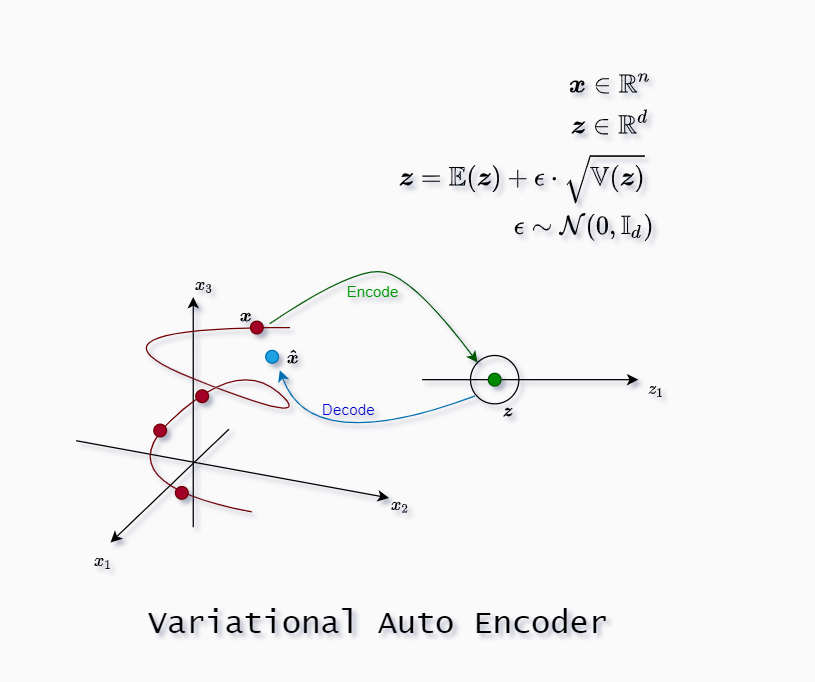
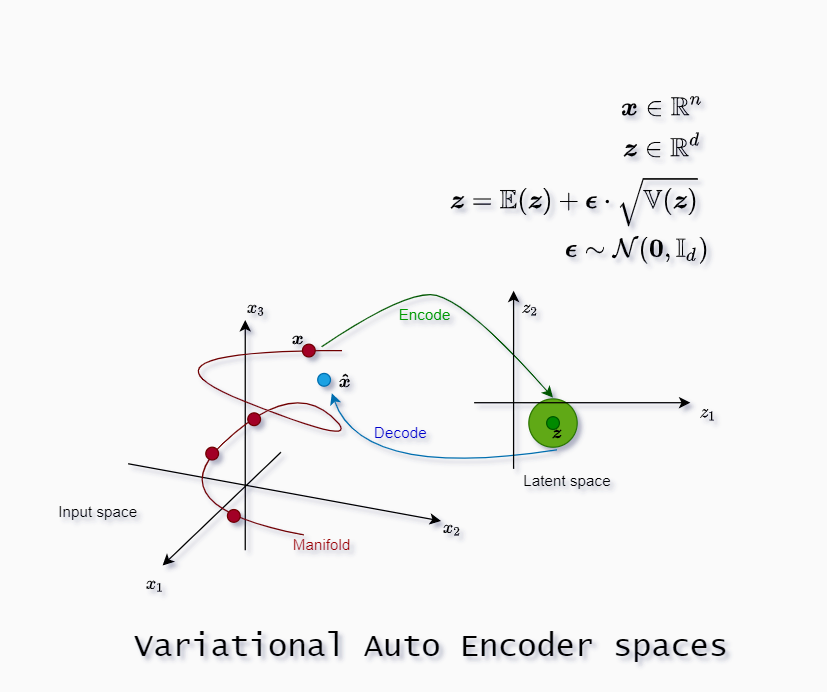
1

diff --git a/_posts/2021-04-14-vae.md b/_posts/2021-04-14-vae.md
@@ -1,86 +1,75 @@
 ---
-published: false
+published: true
 layout: post
 title: Variational Auto-Encoder
 permalink: /vae
 ---
 
+
 There are two approaches to *inference*:
 * exact inference
 * approximation inference
 
-**Exact_ inference** algorithms would be:
+<!-- **Exact_ inference** algorithms would be:
 
 * Brute force
 * The elimination algorithm
 * Message passing
-* Junction tree algorithm
-
-**Approximation inference** algorithms wold be:
+* Junction tree algorithm -->
+<!-- 
+Other approximation inference algorithms wold be:
 * Loopy belief propagation
 * Variational inference
-* Stochastic simulation 
+* Stochastic inferencesimulation  -->
 
-Variational Auto-Encoder do **Variational Inference**.
+Variational Auto-Encoders do **variational Inference** thus the name and this is an **approximation** inference type.
 
+## Marginal Likelihood
 
-
-<!-- ## Marginal Likelihood
-
-To perform **inference** it is sufficient to reason in terms of probabilistic model **marginal likelihood** which is marginalization of **any missing** or latent variables in the model.
+To perform **inference** it is sufficient to reason in terms of probabilistic model **marginal likelihood** which is marginalization of **any missing** or latent variables in the model. As we will see these will be our $\boldsymbol{z}$ variables.
 
 This integration is typically **intractable**, and instead, we optimize a lower bound on the marginal likelihood.
 
-VAE uses VI (Variational Inference)
-
-VI is algorithm to compute the posterior probability **approximately** and where **neural net** is learned to do so.
+VI algorithm is to compute the posterior probability **approximately** using the **neural net**.
 
 
 ## Probabilistic machine learning
 
-A probabilistic model is a joint distribution of hidden variables $\mathrm{z}$ and observed variables $\mathrm{x}$
+A probabilistic model is a joint distribution of hidden variables $\boldsymbol {z}$ and observed variables $\boldsymbol {x}$:
 
 $$
-p(\mathbf{z}, \mathbf{x})
-$$
-Inference about the unknowns is through the posterior, the conditional distribution of the hidden variables given the observations
-$$
-p(\mathbf{z} \mid \mathbf{x})=\frac{p(\mathbf{z}, \mathbf{x})}{p(\mathrm{x})}
+p(\boldsymbol {z}, \boldsymbol {x})
 $$
 
-> What is the evidence?
-It's $p(x)$
+Inference about the unknowns is through the posterior, the conditional distribution of the hidden variables given the observations:
+
+$$
+p(\boldsymbol {z} \mid \boldsymbol {x})=\frac{p(\boldsymbol {z}, \boldsymbol {x})}{p(\boldsymbol {x})}
+$$
+
+**Question**: What is the evidence here?
+
+It's $p(\boldsymbol x)$, and we should learn this distribution so we can create our own inputs from this distribution.
 
 
-For most interesting models, the denominator is not tractable. We appeal to approximate posterior inference. -->
+For the most interesting models the denominator $p(\boldsymbol x)$ is untractable. We can only approximate posterior inference.
 
 Variational Auto-Encoder assumes:
 
+* input $\boldsymbol x$
+* latent space $\boldsymbol  z$
+* VAE NN parameters $\boldsymbol w$
+* PDF of joint $p_{\boldsymbol w}(\boldsymbol  x, \boldsymbol  z)$  is differentiable
 
-* input $x$
-* latent space $z$
-* VAE parameters $\theta$
-* PDF of joint $P_{\theta}(x,z)$
+The whole idea of VAE is to create a neural net that approximates the **posterior**.
 
-We assume the PDF is differentiable.
+Posterior distribution $p(\boldsymbol z \mid \boldsymbol  x)$ is distribution of latent variable condition the data. This distribution is **continuous**.
 
-The whole idea of VAE is to create it as a neural net that approximates the **posterior**.
-
-Posterior distribution we usually write with the letter Q so it will be $Q(z \mid x)$. This is a distribution of latent variable condition the data. This distribution is **continuous**, not the discrete point estimation as we will see.
-
-Since we will learn the VAE as neural net, all the neural net parameters are weights so we can rewrite the distribution with respect to the weights: $Q_{w}(z \mid x)$.
-
-We ask what is the marginal likelihood $P(\theta)$, and what is the variational lover bound of it?
-
-$log P_{\theta}(x)= D_{KL}(Q_{z \mid x} \parallel P_{z \mid x}) +\mathcal{L}(\theta, w \mid x)$
-
-where:
-
-$\mathcal{L}({\theta}, w \mid x)
- = \mathbb{E}_{Q_{w}(z \mid x)}[\log P_{\theta}(x, z)-\log Q_{w}(z \mid x)]$
+Since we will learn the VAE as neural net, all the neural net parameters are weights so we can rewrite the distribution with respect to the weights: $p_{\boldsymbol w}(\boldsymbol z \mid \boldsymbol x)$.
 
 
 
+<!-- 
 ## Maximum likelihood
 
 Maximum likelihood is a method for estimating parameters by maximizing the probability of the observed data. The main ingredients are:
@@ -123,17 +112,72 @@ Where without further information on the dimensionality of $\mathbf{z}$ I have a
 To further clarify, note that the underlying random vector/source of randomness is $\mathbf{z}$, of which you are computing the expectation of a function $f(\mathbf{z}),$ where $f(\mathbf{z})=\log p_{\theta}\left(\mathbf{x}^{(i)} \mid \mathbf{z}\right) .$ And this underlying source of randomness is captured in the distribution $q_{\phi}\left(\mathbf{z} \mid \mathbf{x}^{(i)}\right)$.
 
 
-$\begin{aligned} \mathbb{E}_{q\left(\mathbf{z} \mid \mathbf{x}^{(i)} ; \phi\right)}\left[\log p_{\theta}\left(\mathbf{x}^{(i)} \mid \mathbf{z}\right)\right] &=\int_{\mathbb{R}^{d}} q\left(\mathbf{z} \mid \mathbf{x}^{(i)} ; \phi\right) \log p\left(\mathbf{x}^{(i)} \mid \mathbf{z} ; \theta\right) d \mathbf{z} \\ &=h(\phi, \theta) \end{aligned}$
+$\begin{aligned} \mathbb{E}_{q\left(\mathbf{z} \mid \mathbf{x}^{(i)} ; \phi\right)}\left[\log p_{\theta}\left(\mathbf{x}^{(i)} \mid \mathbf{z}\right)\right] &=\int_{\mathbb{R}^{d}} q\left(\mathbf{z} \mid \mathbf{x}^{(i)} ; \phi\right) \log p\left(\mathbf{x}^{(i)} \mid \mathbf{z} ; \theta\right) d \mathbf{z} \\ &=h(\phi, \theta) \end{aligned}$ -->
 
-## Notation for autoencoder
+## How VAE works
 
-![VAE](/images/2021/04/vae.png)
+We start from the **input** $\boldsymbol x \in \mathbb R^n$, and we **encode** it not just with $\mathbb E(\boldsymbol{z})$ like in normal autoencoder but we also keep the variance $\mathbb V(\boldsymbol{z})$. Both $\mathbb E(\boldsymbol{z})$ and $\mathbb V(\boldsymbol{z})$ have dimensionality $\mathbb R^d$ so in total after the encoding step we have $\mathbb R^{2d}$.
 
-## Joke 
-> What is postarior for the VAE?
-There is no posterior.
+**Encoder** : $\mathbb R^n \rightarrow \mathbb R^{2d}$
+
+**Decoder** : $Z \rightarrow \mathbb R^{n}$ 
 
 
-## Re-parametrization trick
+![vae steps](/images/2021/04/vae-steps.png) 
 
-https://youtu.be/7Rb4s9wNOmc?list=PLLHTzKZzVU9eaEyErdV26ikyolxOsz6mq&t=931
+The **sampler** is capable to create samples from the Gaussian distribution with $\mathbb E(\boldsymbol{z})$ and $\mathbb V(\boldsymbol{z})$, but we use reparametrization trick wich is to replace the sampler with equation:
+
+$$\boldsymbol z = \mathbb E(\boldsymbol 
+z) + \epsilon \cdot \sqrt {\mathbb V(\boldsymbol
+ z) } \tag{1}$$
+
+(1) is called **the reparametrization trick** since we use addition and multiplication to get the gradients we need for backpropagation. 
+
+After we replaced the sampler with reparametrization trick we got $\boldsymbol z$ and lastly we use the **decoder** to decode the original input, but this time we call it $\boldsymbol{\hat x}$. It should be as close as possible to $\boldsymbol{x}$.
+
+![vae spaces](/images/2021/04/vae.png)
+
+In our image latent space is 2-dimensional $d=2$, and input space is 3-dimensional $n=3$. The green bubble around the point $\boldsymbol z$ denotes the variance. 
+
+The manifold is where the inputs live. When we decode values from the latent space we should be as close as possible to the manifold.
+
+## Gaussian noise $\boldsymbol \epsilon$
+
+Bayesian would ask now is there some prior distribution used in VAE to regularize the process?
+
+We use simple multivariate Gaussian noise with zero mean vector and identity covariance matrix $\mathbb I_d$, so $\boldsymbol \epsilon \sim \mathcal N(\boldsymbol 0, \mathbb I_d)$. We then write the objective function for VAE:
+
+$$
+\ell(\boldsymbol{x}, \boldsymbol{ \hat{x}})=\ell_{\text {reconstruction }}+ \ell_{\mathrm{KL}}\left(\boldsymbol{z}, \boldsymbol \epsilon \right) \tag{2}
+$$
+
+or in case we provide hyperparameter $\beta$ to control the relative entropy term:
+
+$$
+\ell(\boldsymbol{x}, \boldsymbol{ \hat{x}})=\ell_{\text {reconstruction }}+\beta \ell_{\mathrm{KL}}\left(\boldsymbol{z}, \boldsymbol \epsilon \right) \tag{3}
+$$
+
+Since for $\boldsymbol{z}$ we know mean vector and covariance matrix and we know same distribution details for for $\boldsymbol \epsilon$, we can calculate analytically the relative entropy formula for those multivariate Gaussian distributions:
+
+$$
+\beta \ell_{\mathrm{KL}}\left(\boldsymbol{z}, \boldsymbol \epsilon \right) = \frac{\beta}{2} \sum_{i=1}^{d}\left(\mathbb{V}\left(z_{i}\right)-\log \left[\mathbb{V}\left(z_{i}\right)\right]-1+\mathbb{E}\left(z_{i}\right)^{2}\right) \tag{4}
+$$
+
+The sum is due to the fact, that covariance matrix of $\boldsymbol z$ is actually a diagonal matrix (there are no covariances) so we can create a sum of $d$ independent dimensions to calculate relative entropy.
+
+From the references you may find out that since we introduced variance of the latent variable we deal with $d$-dimensional bubbles. Loss function one can see trough three meaningful bubble forces:
+
+* $\ell_{\text {reconstruction }}$ force to push bubbles away from each other
+* $\mathbb{E}(z_{i})$ force to wrap all bubbles into a single big bubble
+* $\mathbb{V}\left(z_{i}\right)-\log \left[\mathbb{V}\left(z_{i}\right)\right]-1$ force prevents bubbles to collapse or explode, keeping bubbles at unit size
+
+
+
+
+---
+
+**References**:
+
+* [VAE paper](https://arxiv.org/pdf/1906.02691.pdf){:rel="nofollow"}
+* [Yann LeCun VAE lectures from his course](https://atcold.github.io/pytorch-Deep-Learning/en/week08/08-3/){:rel="nofollow"}
+* [Relative entropy formula](https://stats.stackexchange.com/a/60699/228453){:rel="nofollow"}
